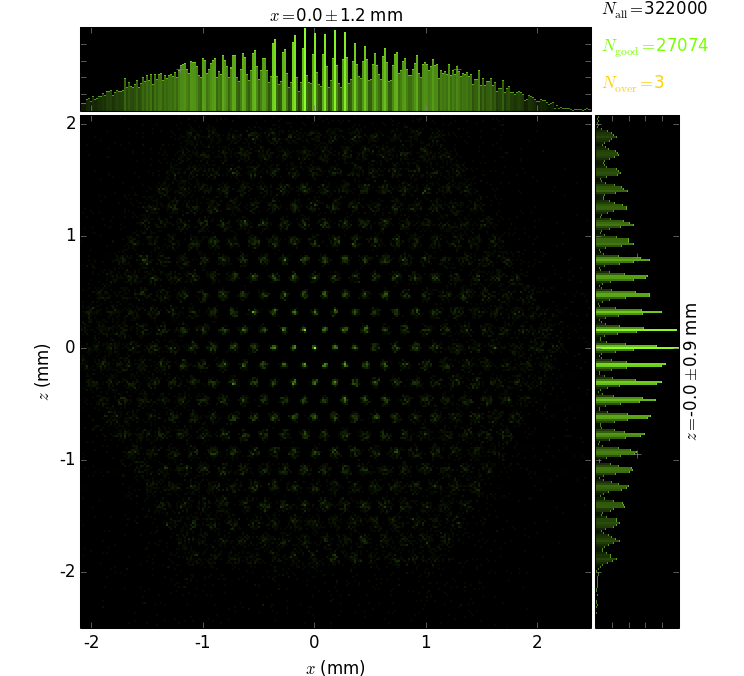
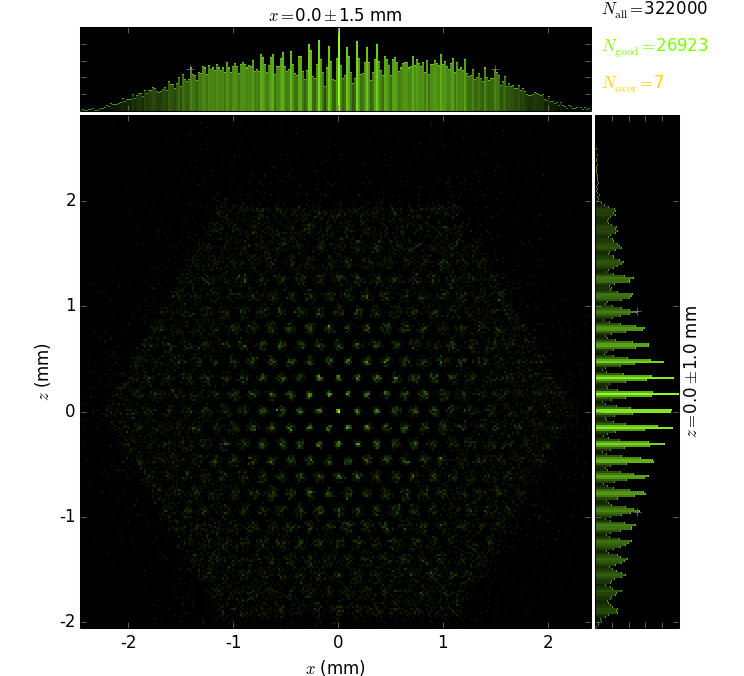
d = f + 150

diff --git a/myCapillary0A.py b/myCapillary0A.py
@@ -126,7 +126,7 @@ def build_beamline(nrays=1000):
 #    beamLine.sources[0].dxprime = (np.arcsin((2*n-3) * (r0+wall) / rSample),
 #        np.arcsin((2*n+1) * (r0+wall) / rSample))
 #    beamLine.sources[0].dxprime = 0, np.arcsin(r0 / rSample)
-    beamLine.fsm2 = rsc.Screen(beamLine, 'DiamondFSM2', (0, f+125, 0))
+    beamLine.fsm2 = rsc.Screen(beamLine, 'DiamondFSM2', (0, f+150, 0))
     return beamLine
 
 def run_process(beamLine, shineOnly1stSource=False):
